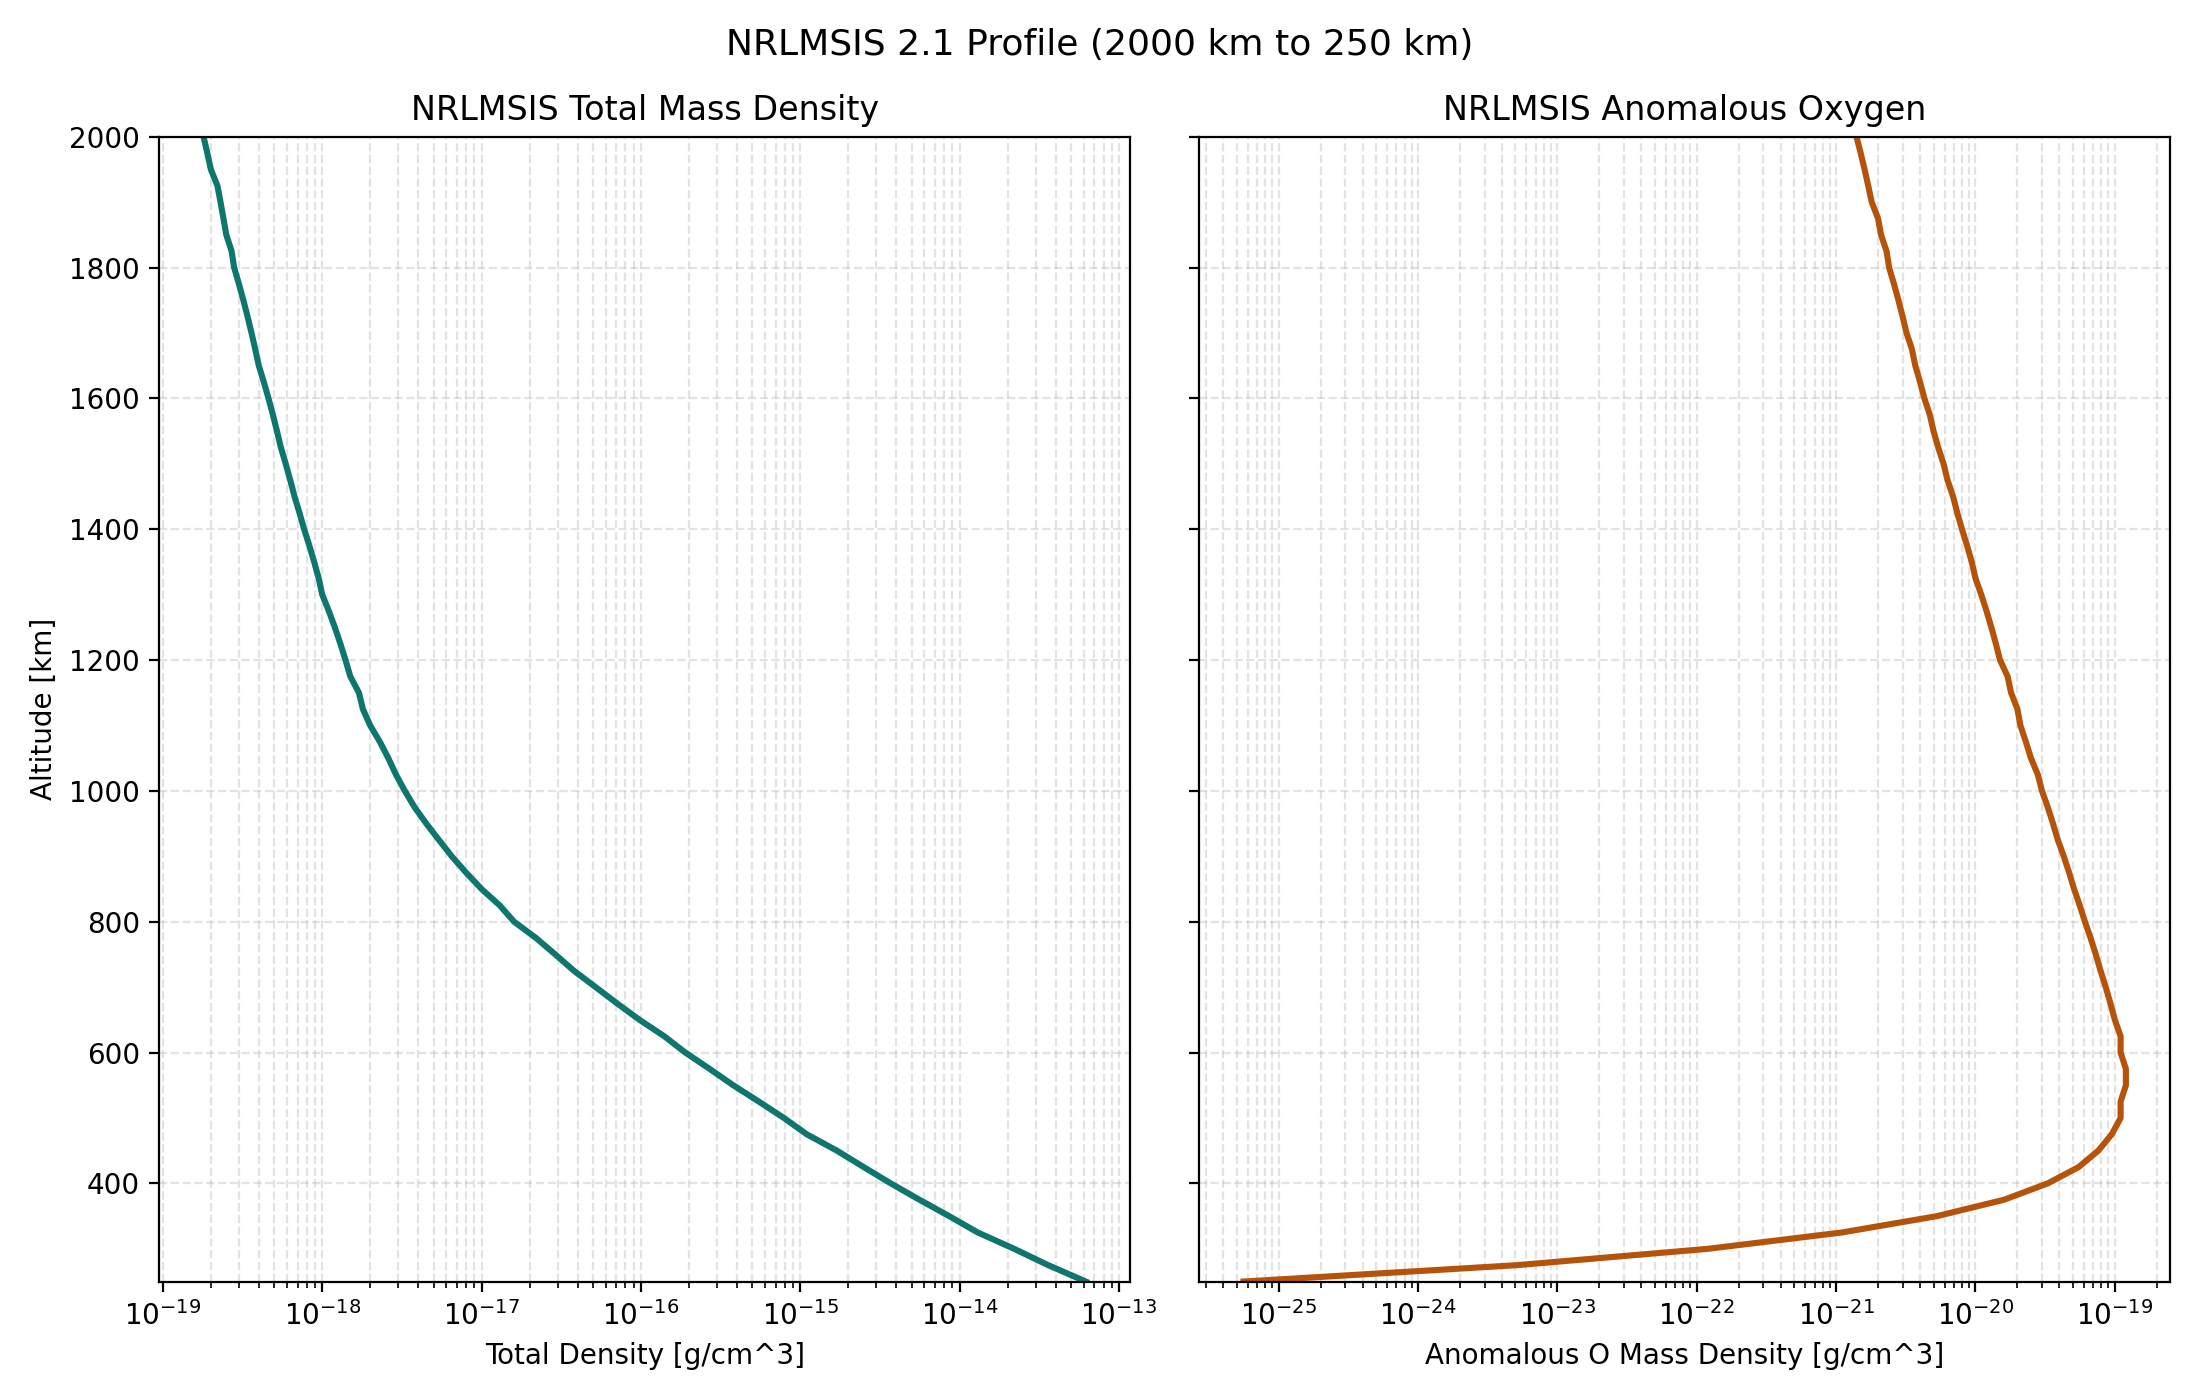
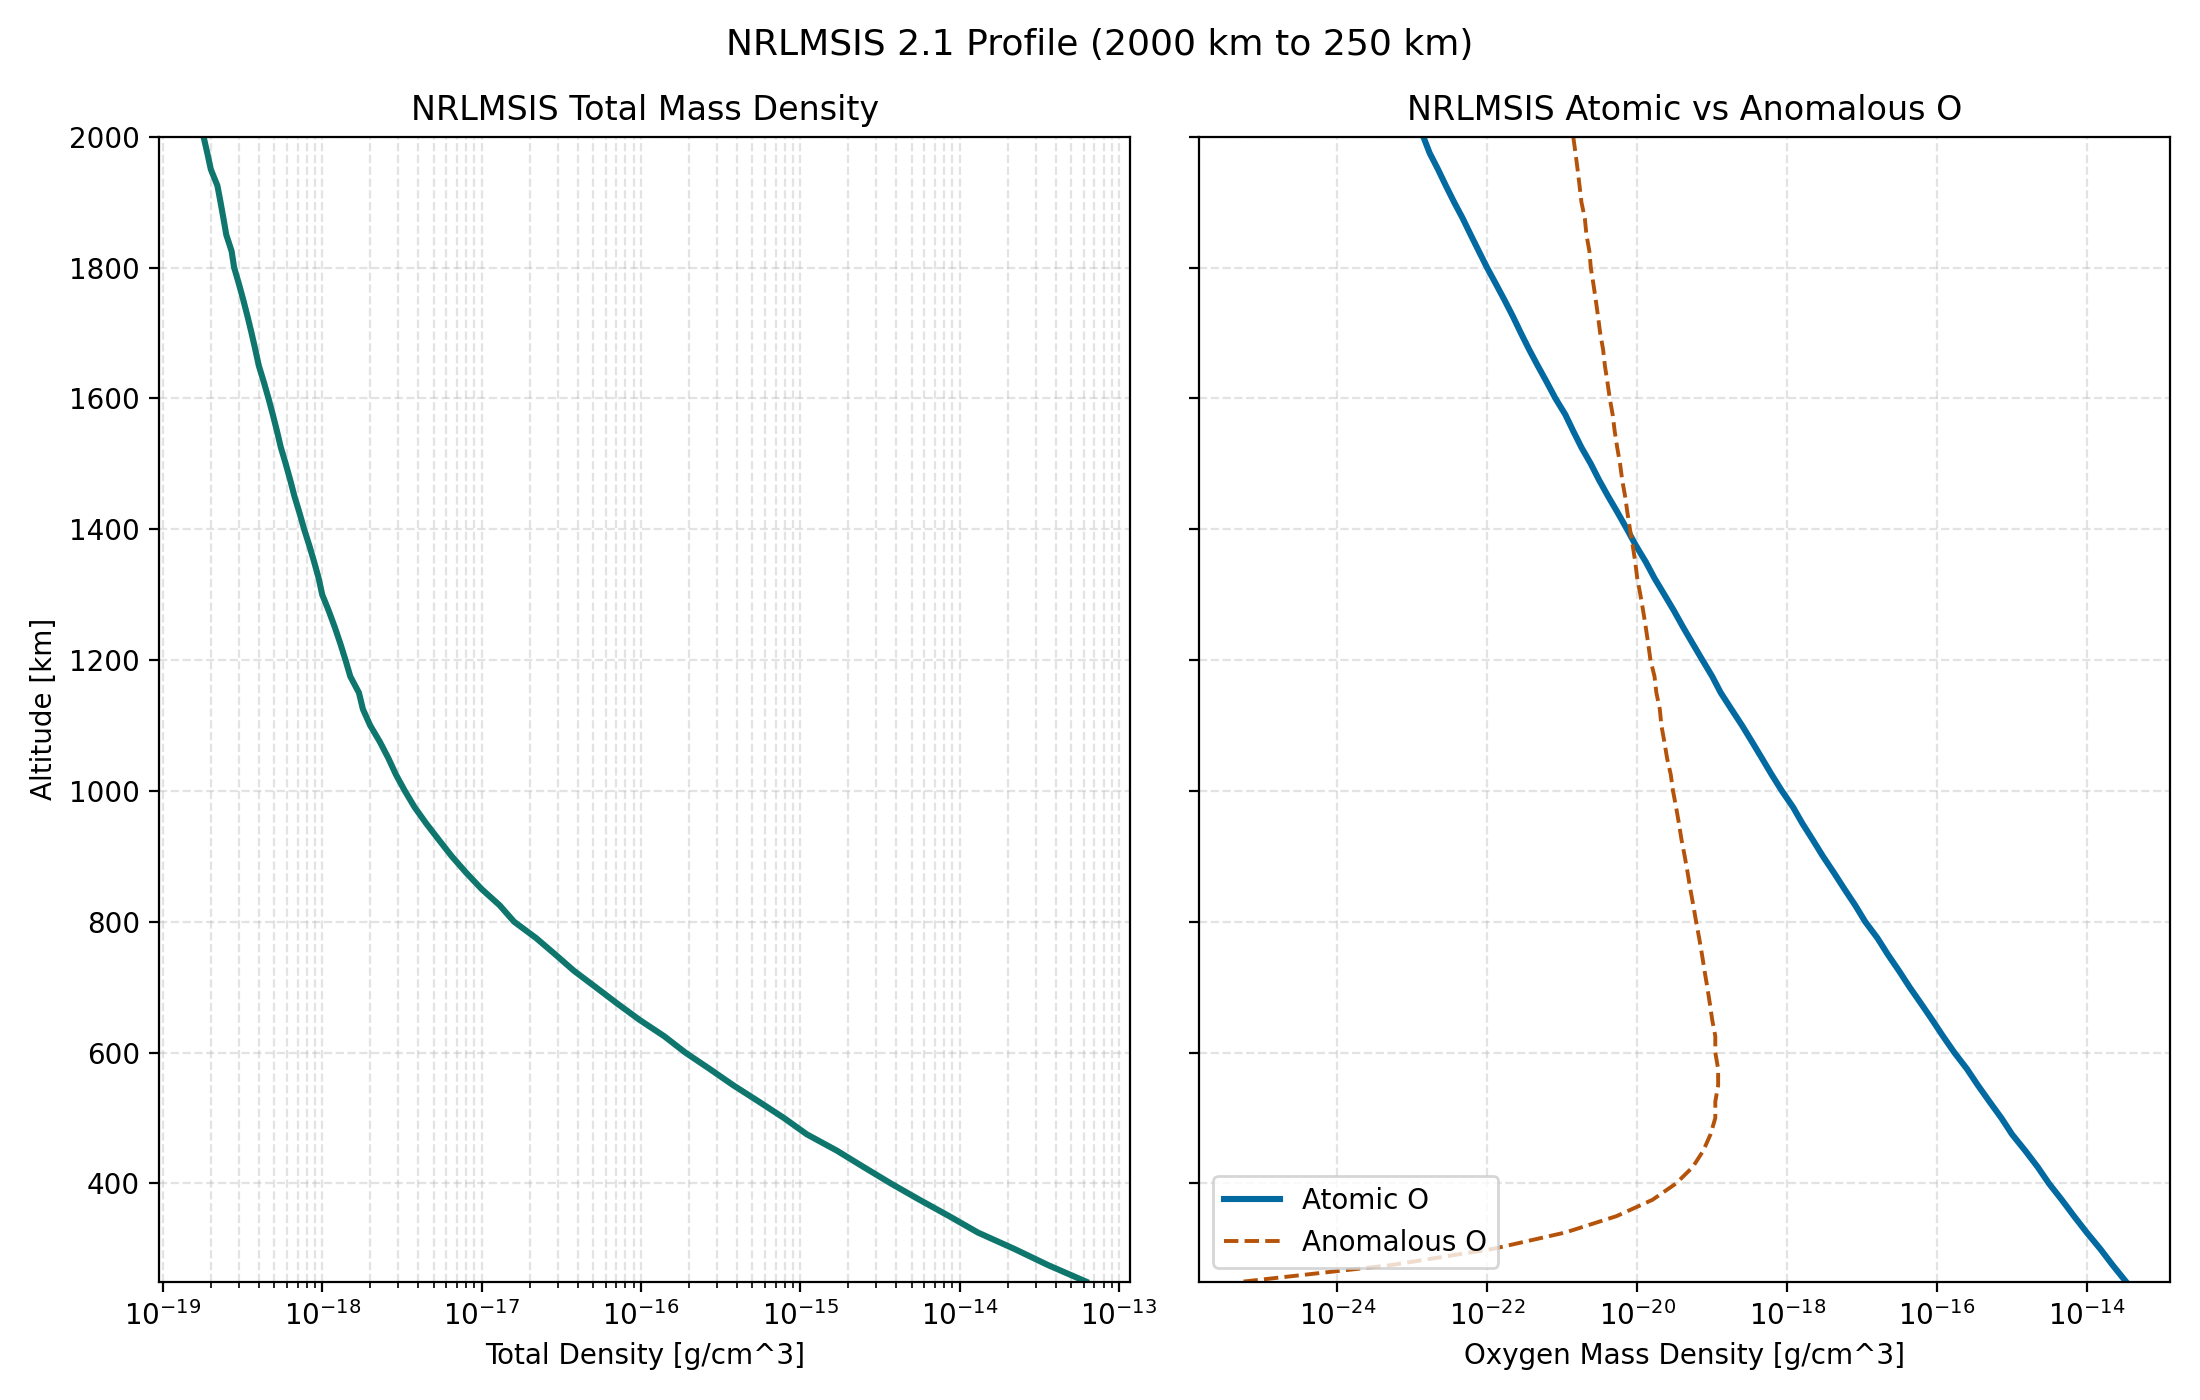
switch profile outputs to atomic oxygen

Changed region(s): [[0.5564, 0.0614, 0.9891, 0.9829]]

diff --git a/examples/plot_msis_profile.py b/examples/plot_msis_profile.py
@@ -14,25 +14,29 @@ from pathlib import Path
 import matplotlib.pyplot as plt
 
 
-def run_profile(cli_path: Path, start_km: float, end_km: float, step_km: float) -> tuple[list[float], list[float], list[float]]:
+def run_profile(
+    cli_path: Path, start_km: float, end_km: float, step_km: float
+) -> tuple[list[float], list[float], list[float], list[float]]:
     cmd = [str(cli_path), f"{start_km}", f"{end_km}", f"{step_km}"]
     out = subprocess.check_output(cmd, text=True)
 
     alt_km: list[float] = []
     rho_g_cm3: list[float] = []
+    o_g_cm3: list[float] = []
     ao_g_cm3: list[float] = []
 
     for line in out.splitlines():
         if not line or line.startswith("#"):
             continue
-        z_s, rho_s, ao_s, status_s = line.split()
+        z_s, rho_s, o_s, ao_s, status_s = line.split()
         if status_s != "0":
             continue
         alt_km.append(float(z_s))
         rho_g_cm3.append(float(rho_s))
+        o_g_cm3.append(float(o_s))
         ao_g_cm3.append(float(ao_s))
 
-    return alt_km, rho_g_cm3, ao_g_cm3
+    return alt_km, rho_g_cm3, o_g_cm3, ao_g_cm3
 
 
 def main() -> int:
@@ -48,7 +52,9 @@ def main() -> int:
     if not cli_path.exists():
         raise FileNotFoundError(f"CLI not found: {cli_path}")
 
-    alt_km, rho_g_cm3, ao_g_cm3 = run_profile(cli_path, args.start_km, args.end_km, args.step_km)
+    alt_km, rho_g_cm3, o_g_cm3, ao_g_cm3 = run_profile(
+        cli_path, args.start_km, args.end_km, args.step_km
+    )
     if not alt_km:
         raise RuntimeError("No valid profile samples returned by CLI")
 
@@ -60,10 +66,12 @@ def main() -> int:
     axes[0].set_title("NRLMSIS Total Mass Density")
     axes[0].grid(True, which="both", ls="--", alpha=0.35)
 
-    axes[1].semilogx(ao_g_cm3, alt_km, color="#b45309", lw=2.2)
-    axes[1].set_xlabel("Anomalous O Mass Density [g/cm^3]")
-    axes[1].set_title("NRLMSIS Anomalous Oxygen")
+    axes[1].semilogx(o_g_cm3, alt_km, color="#0369a1", lw=2.2, label="Atomic O")
+    axes[1].semilogx(ao_g_cm3, alt_km, color="#b45309", lw=1.4, ls="--", label="Anomalous O")
+    axes[1].set_xlabel("Oxygen Mass Density [g/cm^3]")
+    axes[1].set_title("NRLMSIS Atomic vs Anomalous O")
     axes[1].grid(True, which="both", ls="--", alpha=0.35)
+    axes[1].legend(loc="lower left")
 
     ymin = min(args.start_km, args.end_km)
     ymax = max(args.start_km, args.end_km)

diff --git a/examples/msis_profile_cli.cpp b/examples/msis_profile_cli.cpp
@@ -12,10 +12,10 @@
 
 namespace {
 
-double anomalous_o_mass_g_cm3(double o_anom_cm3) {
+double oxygen_mass_g_cm3(double o_cm3) {
   constexpr double avogadro = 6.02214076e23;
   constexpr double oxygen_mass_kg = (31.9988 / 2.0) / (1.0e3 * avogadro);
-  return o_anom_cm3 * oxygen_mass_kg * 1.0e3;
+  return o_cm3 * oxygen_mass_kg * 1.0e3;
 }
 
 }  // namespace
@@ -41,7 +41,7 @@ int main(int argc, char** argv) {
 
   auto model = msis21::Model::load_from_file("data/msis21.parm", msis21::Options{});
 
-  std::cout << "# alt_km rho_g_cm3 ao_g_cm3 status\n";
+  std::cout << "# alt_km rho_g_cm3 o_g_cm3 ao_g_cm3 status\n";
   std::cout << std::scientific << std::setprecision(8);
   for (double z = z_start; z >= z_end - 1e-9; z -= z_step) {
     msis21::Input in{};
@@ -56,9 +56,10 @@ int main(int argc, char** argv) {
     in.ap = 4.0;
 
     const auto out = model.evaluate(in);
-    const double ao_g_cm3 = anomalous_o_mass_g_cm3(out.out.o_anom);
+    const double o_g_cm3 = oxygen_mass_g_cm3(out.out.o);
+    const double ao_g_cm3 = oxygen_mass_g_cm3(out.out.o_anom);
     std::cout << std::fixed << std::setprecision(1) << z << " " << std::scientific << out.out.rho
-              << " " << ao_g_cm3 << " " << static_cast<int>(out.status) << "\n";
+              << " " << o_g_cm3 << " " << ao_g_cm3 << " " << static_cast<int>(out.status) << "\n";
   }
 
   return 0;

diff --git a/README.md b/README.md
@@ -33,6 +33,7 @@ Density/AO profile from 2000 km to 250 km in g/cm^3:
 Columns:
 - `alt_km`
 - `rho_g_cm3` (total mass density)
+- `o_g_cm3` (atomic oxygen partial mass density)
 - `ao_g_cm3` (anomalous oxygen partial mass density)
 - `status`
 
